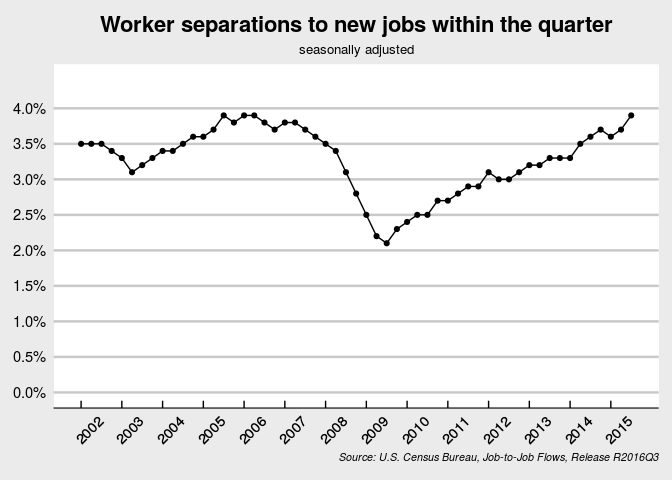
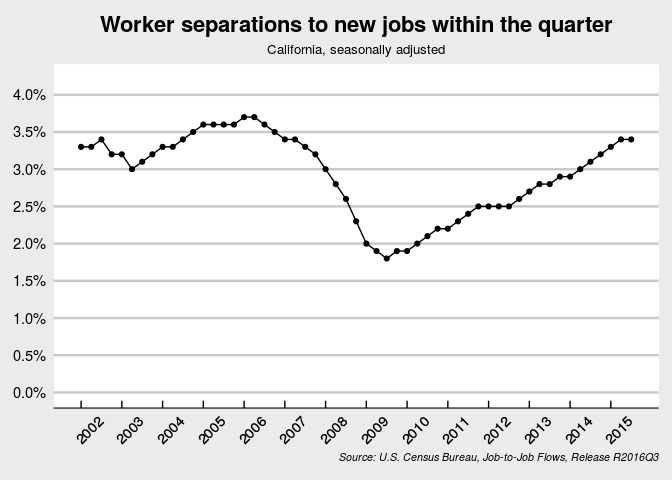
Adjusting it so we can run it by state

diff --git a/j2j_report.html b/j2j_report.html
@@ -132,7 +132,7 @@ $(document).ready(function () {
 <li><a href="#the-graph">The graph</a></li>
 <li><a href="#the-text">The text</a></li>
 </ul></li>
-<li><a href="#the-actual-text">The actual text</a></li>
+<li><a href="#the-actual-text-for-california">The actual text for California</a></li>
 </ul>
 </div>
 
@@ -141,11 +141,14 @@ $(document).ready(function () {
 <p>This is a draft news release for a Census Bureau product called the Job-to-Job (J2J) Flows. It plays around with dynamic text and just basic replicability.</p>
 <div id="setting-parameters" class="section level3">
 <h3>Setting parameters</h3>
-<p>First, we need to set some parameters and get the data (if this were a Shiny webapp, that might be a pulldown menu, in particular for the state).</p>
+<p>First, we need to set some parameters and get the data (if this were a Shiny webapp, that might be a pulldown menu, in particular for the state). First, the key parameters:</p>
 <pre class="r"><code>j2j.vintage &lt;- &quot;R2016Q3&quot;
+j2j.state &lt;- &quot;ca&quot;</code></pre>
+<p>Then some more technical parameters:</p>
+<pre class="r"><code>schema.vintage &lt;- &quot;V4.1.0&quot;
+schema.urlbase &lt;- &quot;https://lehd.ces.census.gov/data/schema&quot;
 # j2jtype &lt;- &quot;j2j&quot;
 j2j.seas &lt;- &quot;s&quot;
-j2j.state &lt;- &quot;us&quot;
 # the data area
 j2j.urlbase &lt;- &quot;https://lehd.ces.census.gov/data/j2j&quot;
 j2jr.url &lt;- paste(j2j.urlbase,j2j.vintage,&quot;j2jr&quot;,j2j.state,sep = &quot;/&quot;)
@@ -164,7 +167,7 @@ j2j.firmage &lt;- &quot;0&quot;
 j2j.firmsize &lt;- &quot;0&quot;
 # or we could simply select the agg_level
 # this is the same as all of the above
-j2j.agg_level &lt;- &quot;1&quot;
+if (j2j.state == &quot;us&quot; ) j2j.agg_level &lt;- &quot;1&quot; else j2j.agg_level &lt;- &quot;1025&quot;
 j2j.plotvar &lt;- &quot;EEHireR&quot;
 # and source statement
 j2j.source &lt;- paste(&quot;U.S. Census Bureau, Job-to-Job Flows, Release&quot;,j2j.vintage,sep = &quot; &quot;)
@@ -175,7 +178,7 @@ j2j.fmtbig &lt;- 3</code></pre>
 </div>
 <div id="getting-the-data" class="section level3">
 <h3>Getting the data</h3>
-<p>Getting the data implies downloading the files “j2j_us_all.csv.gz” and “j2jr_us_all.csv.gz” from <a href="https://lehd.ces.census.gov/data/j2j" class="uri">https://lehd.ces.census.gov/data/j2j</a>.</p>
+<p>Getting the data implies downloading the files “j2j_ca_all.csv.gz” and “j2jr_ca_all.csv.gz” from <a href="https://lehd.ces.census.gov/data/j2j" class="uri">https://lehd.ces.census.gov/data/j2j</a>.</p>
 <pre class="r"><code># we need the full data
 conr &lt;- gzcon(url(paste(j2j.url,j2j.file,sep=&quot;/&quot;)))
 txt &lt;- readLines(conr)
@@ -185,13 +188,21 @@ close(conr)
 conr &lt;- gzcon(url(paste(j2jr.url,j2jr.file,sep=&quot;/&quot;)))
 txt &lt;- readLines(conr)
 j2jrdata &lt;- read.csv(textConnection(txt))
+close(conr)
 # mergevars should be derived from metadata, for now we hard-code
 mergevars &lt;- names(j2jdata)[1:17]
 j2jdata &lt;- merge(x = j2jdata, y=j2jrdata, by=mergevars)
 
 j2jdata$yqstr &lt;- paste(j2jdata$year,j2jdata$quarter,sep=&quot;Q&quot;)
 j2jdata$linyq &lt;- j2jdata$year + (j2jdata$quarter-1)/4
-# we also need some metadata. for later.</code></pre>
+# we also need some metadata. for later.
+# get the usps code
+#conr &lt;- gzcon(url(paste(schema.urlbase,schema.vintage,&quot;label_stusps&quot;,sep=&quot;/&quot;)))
+label.stusps &lt;- read.csv(url(paste(schema.urlbase,schema.vintage,&quot;label_stusps.csv&quot;,sep=&quot;/&quot;)))[,c(&quot;geography&quot;,&quot;stusps&quot;)]
+# get the state name
+label.fipsnum &lt;- read.csv(url(paste(schema.urlbase,schema.vintage,&quot;label_fipsnum.csv&quot;,sep=&quot;/&quot;)))
+states &lt;- merge(label.stusps,label.fipsnum,by=c(&quot;geography&quot;))
+this.geo &lt;- subset(states,stusps==str_to_upper(j2j.state))</code></pre>
 </div>
 </div>
 <div id="doing-stuff" class="section level2">
@@ -204,7 +215,6 @@ j2jdata$linyq &lt;- j2jdata$year + (j2jdata$quarter-1)/4
 <h4>Code for the graph</h4>
 <pre class="r"><code>library(ggplot2)
 library(ggthemes)
-library(stringr)
 
 analysis &lt;- subset(j2jdata,year &gt; 2001 &amp; str_to_lower(seasonadj) == j2j.seas &amp; agg_level == j2j.agg_level)
 plotdata &lt;- analysis[,c(&quot;year&quot;,&quot;quarter&quot;,j2j.plotvar,&quot;seasonadj&quot;,&quot;agg_level&quot;)]
@@ -228,11 +238,11 @@ gg &lt;- ggplot(plotdata,aes_q(x=as.name(&quot;yq&quot;),y=as.name(j2j.plotvar))
     plot.subtitle =element_text(hjust = 0.5),
   ) +
   xlab(paste(&quot;Source:&quot;,j2j.source,sep = &quot; &quot;)) +
-  ggtitle(&quot;Worker separations to new jobs within the quarter&quot;, &quot;seasonally adjusted&quot;) </code></pre>
+  ggtitle(&quot;Worker separations to new jobs within the quarter&quot;, paste(this.geo$label,&quot;seasonally adjusted&quot;,sep=&quot;, &quot;)) </code></pre>
 </div>
 <div id="the-actual-graph" class="section level4">
 <h4>The actual graph</h4>
[2 lines of base64/hex data omitted]
 </div>
 </div>
 <div id="the-text" class="section level3">
@@ -283,9 +293,9 @@ j2j.prevy &lt;- subset(analysis,linyq==j2j.linyq - 1)</code></pre>
 </div>
 </div>
 </div>
-<div id="the-actual-text" class="section level2">
-<h2>The actual text</h2>
-<p>The fraction of workers changing jobs grew in the third quarter of 2015, with 4,840,000 (3.9%) changing employers this quarter, compared to 4,440,000 (3.6%) in the third quarter of 2014. Flows into employment were largely unchanged, with 8,780,000 (7.0%) employed on the last day of the quarter who did not hold a job on the first day of the quarter, compared to 7.0% a year ago. Separations to non-employment grew, with 8,440,000 (6.7%) employed on the first day of the quarter and no longer employed on the last day of the quarter, compared to 6.4% a year ago.</p>
+<div id="the-actual-text-for-california" class="section level2">
+<h2>The actual text for California</h2>
+<p>The fraction of workers changing jobs grew in California in the third quarter of 2015, with 471,000 (3.4%) changing employers this quarter, compared to 441,000 (3.1%) in the third quarter of 2014. Flows into employment were largely unchanged, with 1,030,000 (7.0%) employed on the last day of the quarter who did not hold a job on the first day of the quarter, compared to 7.0% a year ago. Separations to non-employment grew, with 919,000 (6.5%) employed on the first day of the quarter and no longer employed on the last day of the quarter, compared to 6.3% a year ago.</p>
 </div>
 
 

diff --git a/j2j_report.md b/j2j_report.md
@@ -9,14 +9,22 @@ March 8, 2017
 This is a draft news release for a Census Bureau product called the Job-to-Job (J2J) Flows. It plays around with dynamic text and just basic replicability.
 
 ### Setting parameters
-First, we need to set some parameters and get the data (if this were a Shiny webapp, that might be a pulldown menu, in particular for the state). 
+First, we need to set some parameters and get the data (if this were a Shiny webapp, that might be a pulldown menu, in particular for the state). First, the key parameters:
 
 
 ```r
 j2j.vintage <- "R2016Q3"
+j2j.state <- "ca"
+```
+
+Then some more technical parameters:
+
+
+```r
+schema.vintage <- "V4.1.0"
+schema.urlbase <- "https://lehd.ces.census.gov/data/schema"
 # j2jtype <- "j2j"
 j2j.seas <- "s"
-j2j.state <- "us"
 # the data area
 j2j.urlbase <- "https://lehd.ces.census.gov/data/j2j"
 j2jr.url <- paste(j2j.urlbase,j2j.vintage,"j2jr",j2j.state,sep = "/")
@@ -35,7 +43,7 @@ j2j.firmage <- "0"
 j2j.firmsize <- "0"
 # or we could simply select the agg_level
 # this is the same as all of the above
-j2j.agg_level <- "1"
+if (j2j.state == "us" ) j2j.agg_level <- "1" else j2j.agg_level <- "1025"
 j2j.plotvar <- "EEHireR"
 # and source statement
 j2j.source <- paste("U.S. Census Bureau, Job-to-Job Flows, Release",j2j.vintage,sep = " ")
@@ -47,7 +55,7 @@ j2j.fmtbig <- 3
 We are going to work with seasonally adjusted data from the R2016Q3 release.
 
 ### Getting the data
-Getting the data implies downloading the files "j2j_us_all.csv.gz" and "j2jr_us_all.csv.gz" from https://lehd.ces.census.gov/data/j2j.
+Getting the data implies downloading the files "j2j_ca_all.csv.gz" and "j2jr_ca_all.csv.gz" from https://lehd.ces.census.gov/data/j2j.
 
 ```r
 # we need the full data
@@ -59,6 +67,7 @@ close(conr)
 conr <- gzcon(url(paste(j2jr.url,j2jr.file,sep="/")))
 txt <- readLines(conr)
 j2jrdata <- read.csv(textConnection(txt))
+close(conr)
 # mergevars should be derived from metadata, for now we hard-code
 mergevars <- names(j2jdata)[1:17]
 j2jdata <- merge(x = j2jdata, y=j2jrdata, by=mergevars)
@@ -66,6 +75,13 @@ j2jdata <- merge(x = j2jdata, y=j2jrdata, by=mergevars)
 j2jdata$yqstr <- paste(j2jdata$year,j2jdata$quarter,sep="Q")
 j2jdata$linyq <- j2jdata$year + (j2jdata$quarter-1)/4
 # we also need some metadata. for later.
+# get the usps code
+#conr <- gzcon(url(paste(schema.urlbase,schema.vintage,"label_stusps",sep="/")))
+label.stusps <- read.csv(url(paste(schema.urlbase,schema.vintage,"label_stusps.csv",sep="/")))[,c("geography","stusps")]
+# get the state name
+label.fipsnum <- read.csv(url(paste(schema.urlbase,schema.vintage,"label_fipsnum.csv",sep="/")))
+states <- merge(label.stusps,label.fipsnum,by=c("geography"))
+this.geo <- subset(states,stusps==str_to_upper(j2j.state))
 ```
 
 ## Doing stuff
@@ -79,7 +95,6 @@ Now we simply plot this:
 ```r
 library(ggplot2)
 library(ggthemes)
-library(stringr)
 
 analysis <- subset(j2jdata,year > 2001 & str_to_lower(seasonadj) == j2j.seas & agg_level == j2j.agg_level)
 plotdata <- analysis[,c("year","quarter",j2j.plotvar,"seasonadj","agg_level")]
@@ -103,7 +118,7 @@ gg <- ggplot(plotdata,aes_q(x=as.name("yq"),y=as.name(j2j.plotvar))) +
     plot.subtitle =element_text(hjust = 0.5),
   ) +
   xlab(paste("Source:",j2j.source,sep = " ")) +
-  ggtitle("Worker separations to new jobs within the quarter", "seasonally adjusted") 
+  ggtitle("Worker separations to new jobs within the quarter", paste(this.geo$label,"seasonally adjusted",sep=", ")) 
 ```
 #### The actual graph
 ![](j2j_report_files/figure-html/figure1-1.png)<!-- -->
@@ -156,26 +171,27 @@ j2j.prevq <- subset(analysis,linyq==j2j.linyq - 0.25)
 j2j.prevy <- subset(analysis,linyq==j2j.linyq - 1)
 ```
 
-## The actual text
+## The actual text for California
 The fraction of workers changing jobs 
 grew
+in California
 in the third quarter of 2015,
-with 4,840,000 
-(3.9%) changing employers this quarter, 
-compared to 4,440,000 
-(3.6%) 
+with 471,000 
+(3.4%) changing employers this quarter, 
+compared to 441,000 
+(3.1%) 
 in the third quarter of 2014.
 Flows into employment
 were largely unchanged, 
-with 8,780,000
+with 1,030,000
 (7.0%)
 employed on the last day of the quarter who did not hold a job on the first day of the quarter,
 compared to 7.0% a year ago.
 Separations to non-employment 
 grew, 
-with 8,440,000
-(6.7%) 
+with 919,000
+(6.5%) 
 employed on the first day of the quarter and no longer employed on the last day of the quarter,
-compared to 6.4% a year ago.
+compared to 6.3% a year ago.
 
 
